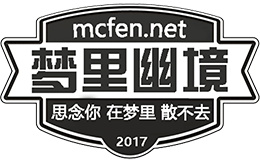
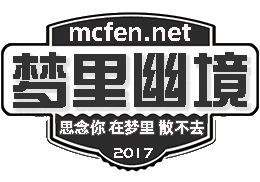
Add files via upload

diff --git a/t/10/index.html b/t/10/index.html
@@ -11,7 +11,7 @@ setTimeout("window.location.href='https://520.mcfen.net/dear_friend/data.html'",
 </script>
 <br><br>
 <p id="footer-top">
-        <img src="https://cdn.jsdelivr.net/gh/Jumpblog/jumpblog.github.io@main/images/mcfen_260.png" alt="Mcfen">
+        <img src="https://mcfen-free.oss-cn-hongkong.aliyuncs.com/logo_260.png" alt="Mcfen">
       </p>
 <div id="footer-info">
 <h1 class="center"><strong>页面已更新~正在跳转新页面...</strong></h1>

diff --git a/t/14/index.html b/t/14/index.html
@@ -11,7 +11,7 @@ setTimeout("window.location.href='https://blog.mcfen.net/post/20190215'",0)
 </script>
 <br><br>
 <p id="footer-top">
-        <img src="https://cdn.jsdelivr.net/gh/Jumpblog/jumpblog.github.io@main/images/mcfen_260.png" alt="Mcfen">
+        <img src="https://mcfen-free.oss-cn-hongkong.aliyuncs.com/logo_260.png" alt="Mcfen">
       </p>
 <div id="footer-info">
 <h1 class="center"><strong>页面已更新~正在跳转新页面...</strong></h1>

diff --git a/t/15/index.html b/t/15/index.html
@@ -11,7 +11,7 @@ setTimeout("window.location.href='https://blog.mcfen.net/post/20190311'",0)
 </script>
 <br><br>
 <p id="footer-top">
-        <img src="https://cdn.jsdelivr.net/gh/Jumpblog/jumpblog.github.io@main/images/mcfen_260.png" alt="Mcfen">
+        <img src="https://mcfen-free.oss-cn-hongkong.aliyuncs.com/logo_260.png" alt="Mcfen">
       </p>
 <div id="footer-info">
 <h1 class="center"><strong>页面已更新~正在跳转新页面...</strong></h1>

diff --git a/t/16/index.html b/t/16/index.html
@@ -11,7 +11,7 @@ setTimeout("window.location.href='https://blog.mcfen.net/post/20190504'",0)
 </script>
 <br><br>
 <p id="footer-top">
-        <img src="https://cdn.jsdelivr.net/gh/Jumpblog/jumpblog.github.io@main/images/mcfen_260.png" alt="Mcfen">
+        <img src="https://mcfen-free.oss-cn-hongkong.aliyuncs.com/logo_260.png" alt="Mcfen">
       </p>
 <div id="footer-info">
 <h1 class="center"><strong>页面已更新~正在跳转新页面...</strong></h1>

diff --git a/t/17/index.html b/t/17/index.html
@@ -11,7 +11,7 @@ setTimeout("window.location.href='https://blog.mcfen.net/post/20190504'",0)
 </script>
 <br><br>
 <p id="footer-top">
-        <img src="https://cdn.jsdelivr.net/gh/Jumpblog/jumpblog.github.io@main/images/mcfen_260.png" alt="Mcfen">
+        <img src="https://mcfen-free.oss-cn-hongkong.aliyuncs.com/logo_260.png" alt="Mcfen">
       </p>
 <div id="footer-info">
 <h1 class="center"><strong>页面已更新~正在跳转新页面...</strong></h1>

diff --git a/t/18/index.html b/t/18/index.html
@@ -11,7 +11,7 @@ setTimeout("window.location.href='https://blog.mcfen.net/post/20200328'",0)
 </script>
 <br><br>
 <p id="footer-top">
-        <img src="https://cdn.jsdelivr.net/gh/Jumpblog/jumpblog.github.io@main/images/mcfen_260.png" alt="Mcfen">
+        <img src="https://mcfen-free.oss-cn-hongkong.aliyuncs.com/logo_260.png" alt="Mcfen">
       </p>
 <div id="footer-info">
 <h1 class="center"><strong>页面已更新~正在跳转新页面...</strong></h1>

diff --git a/404.html b/404.html
@@ -55,7 +55,7 @@ permalink: /404.html
 
     <div class="container">
       <p>
-        <img src="https://cdn.jsdelivr.net/gh/Jumpblog/jumpblog.github.io@main/images/mcfen_260.png" alt="Mcfen">
+        <img src="https://mcfen-free.oss-cn-hongkong.aliyuncs.com/logo_260.png" alt="Mcfen">
       </p>
 
       <p><strong>页面不存在或者出错了.</strong></p>
